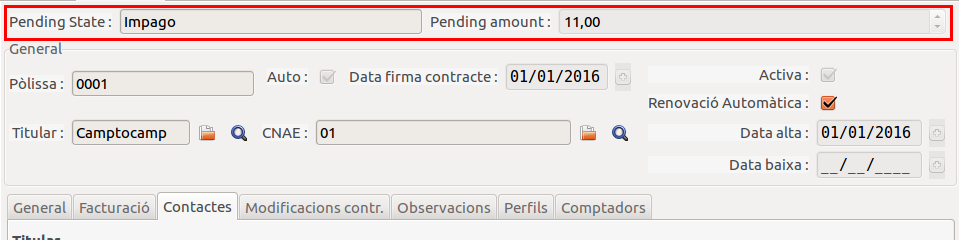
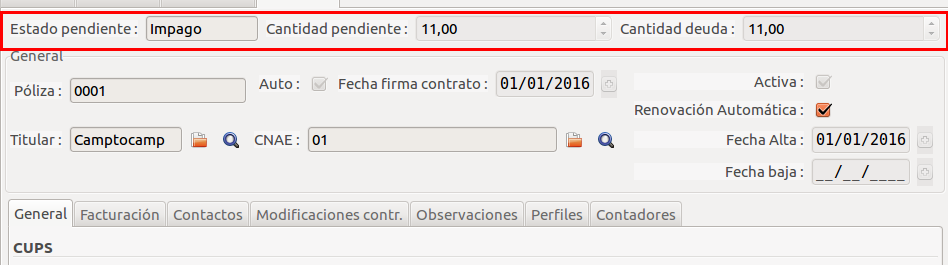
Afegim la nova funcionalitat de deute

Changed region(s): [[0.0, 0.0, 1.0, 0.7], [0.0, 0.3792, 1.0, 1.0], [0.7954, 0.2917, 0.8871, 0.35]]

diff --git a/docs/base/polisses.md b/docs/base/polisses.md
@@ -65,12 +65,16 @@ vigent.
 ## Visualització deute d'una pòlissa/contracte
 
 Podem visualitzar el deute d'una pòlissa/contracte a través del seu formulari,
-tenim els camps **Estat pendent** i **Quantitat pendent**.
+tenim els camps **Estat pendent**, **Quantitat pendent** i **Quantitat deute**.
 
 ![](_static/polisses/pending_amount_form.png)
 
-* **Quantitat pendent**: Indica els euros que deu aquesta pòlissa/contracte de
-  totes les factures que tingui pendents.
+* **Quantitat pendent**: Indica els euros que aquesta pòlissa està pendent de
+  pagar. Ja sigui perquè és d'una devolució o perquè encara no s'ha remesat.
+
+* **Quantitat deute**: Indica els euros que deu aquesta pòlissa que són d'impagament.
+  Agafa la quantitat residual de totes les factures que el seu estat pendent no
+  sigui **Correcte**.
 
 * **Estat pendent**: Mostra el *pitjor* estat de totes les pòlisses que no estiguin
   en estat correcte.
